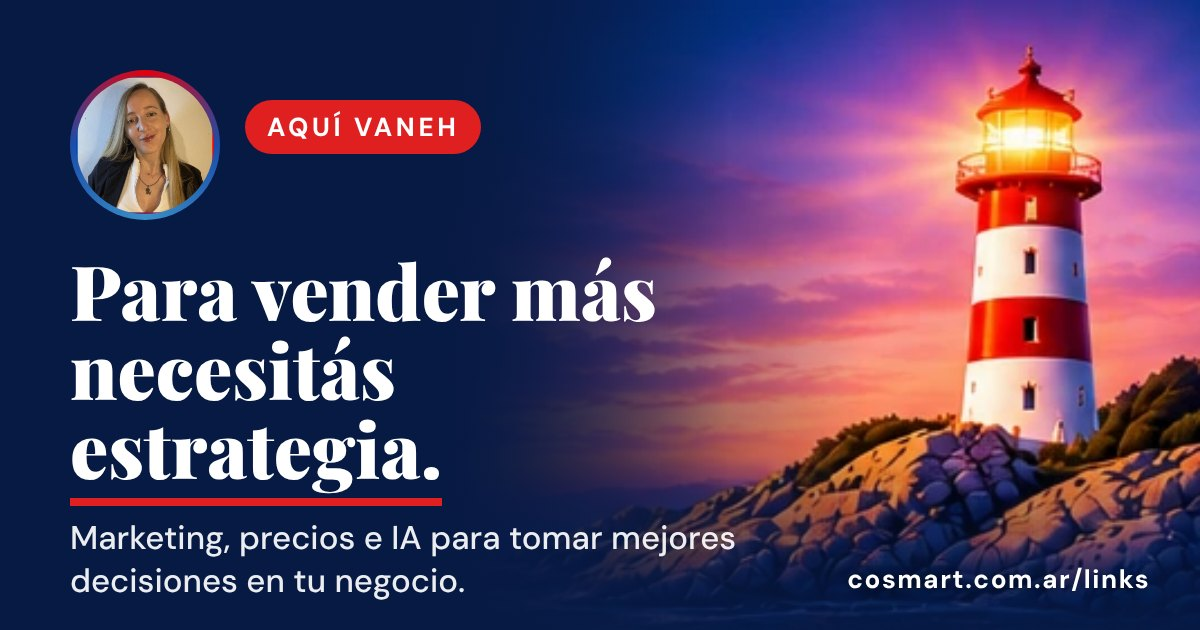
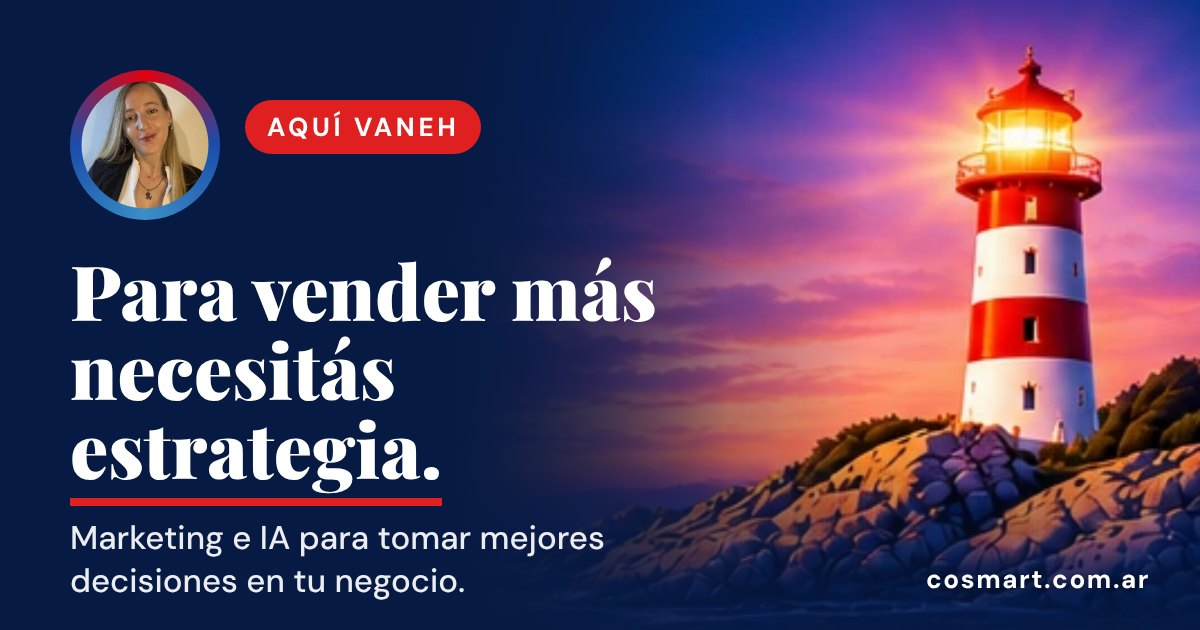
Links: imagen para compartir más corta, foto con zoom y url sin /links
Claude-Session: https://claude.ai/code/session_01Jpn2k9DcpBCnuePGHMs4K7

Changed region(s): [[0.0617, 0.1206, 0.185, 0.3619], [0.185, 0.8143, 0.6167, 0.8746], [0.7092, 0.9048, 0.9558, 0.9349]]

diff --git a/links.html b/links.html
@@ -13,11 +13,11 @@
 <meta property="og:title" content="Aquí Vaneh — Marketing + IA con tu identidad">
 <meta property="og:description" content="Para vender más necesitás estrategia. Acá te enseño. Marketing, precios e IA para tomar mejores decisiones en tu negocio.">
 <meta property="og:url" content="https://cosmart.com.ar/links">
-<meta property="og:image" content="https://cosmart.com.ar/images/og-links.jpg?v=2">
+<meta property="og:image" content="https://cosmart.com.ar/images/og-links.jpg?v=3">
 <meta property="og:image:width" content="1200">
 <meta property="og:image:height" content="630">
 <meta property="og:image:alt" content="Aquí Vaneh: Para vender más necesitás estrategia. Faro al atardecer.">
-<meta name="twitter:image" content="https://cosmart.com.ar/images/og-links.jpg?v=2">
+<meta name="twitter:image" content="https://cosmart.com.ar/images/og-links.jpg?v=3">
 <meta name="twitter:card" content="summary_large_image">
 <meta name="theme-color" content="#091C47">
 <link rel="icon" href="/images/favicon.ico">
